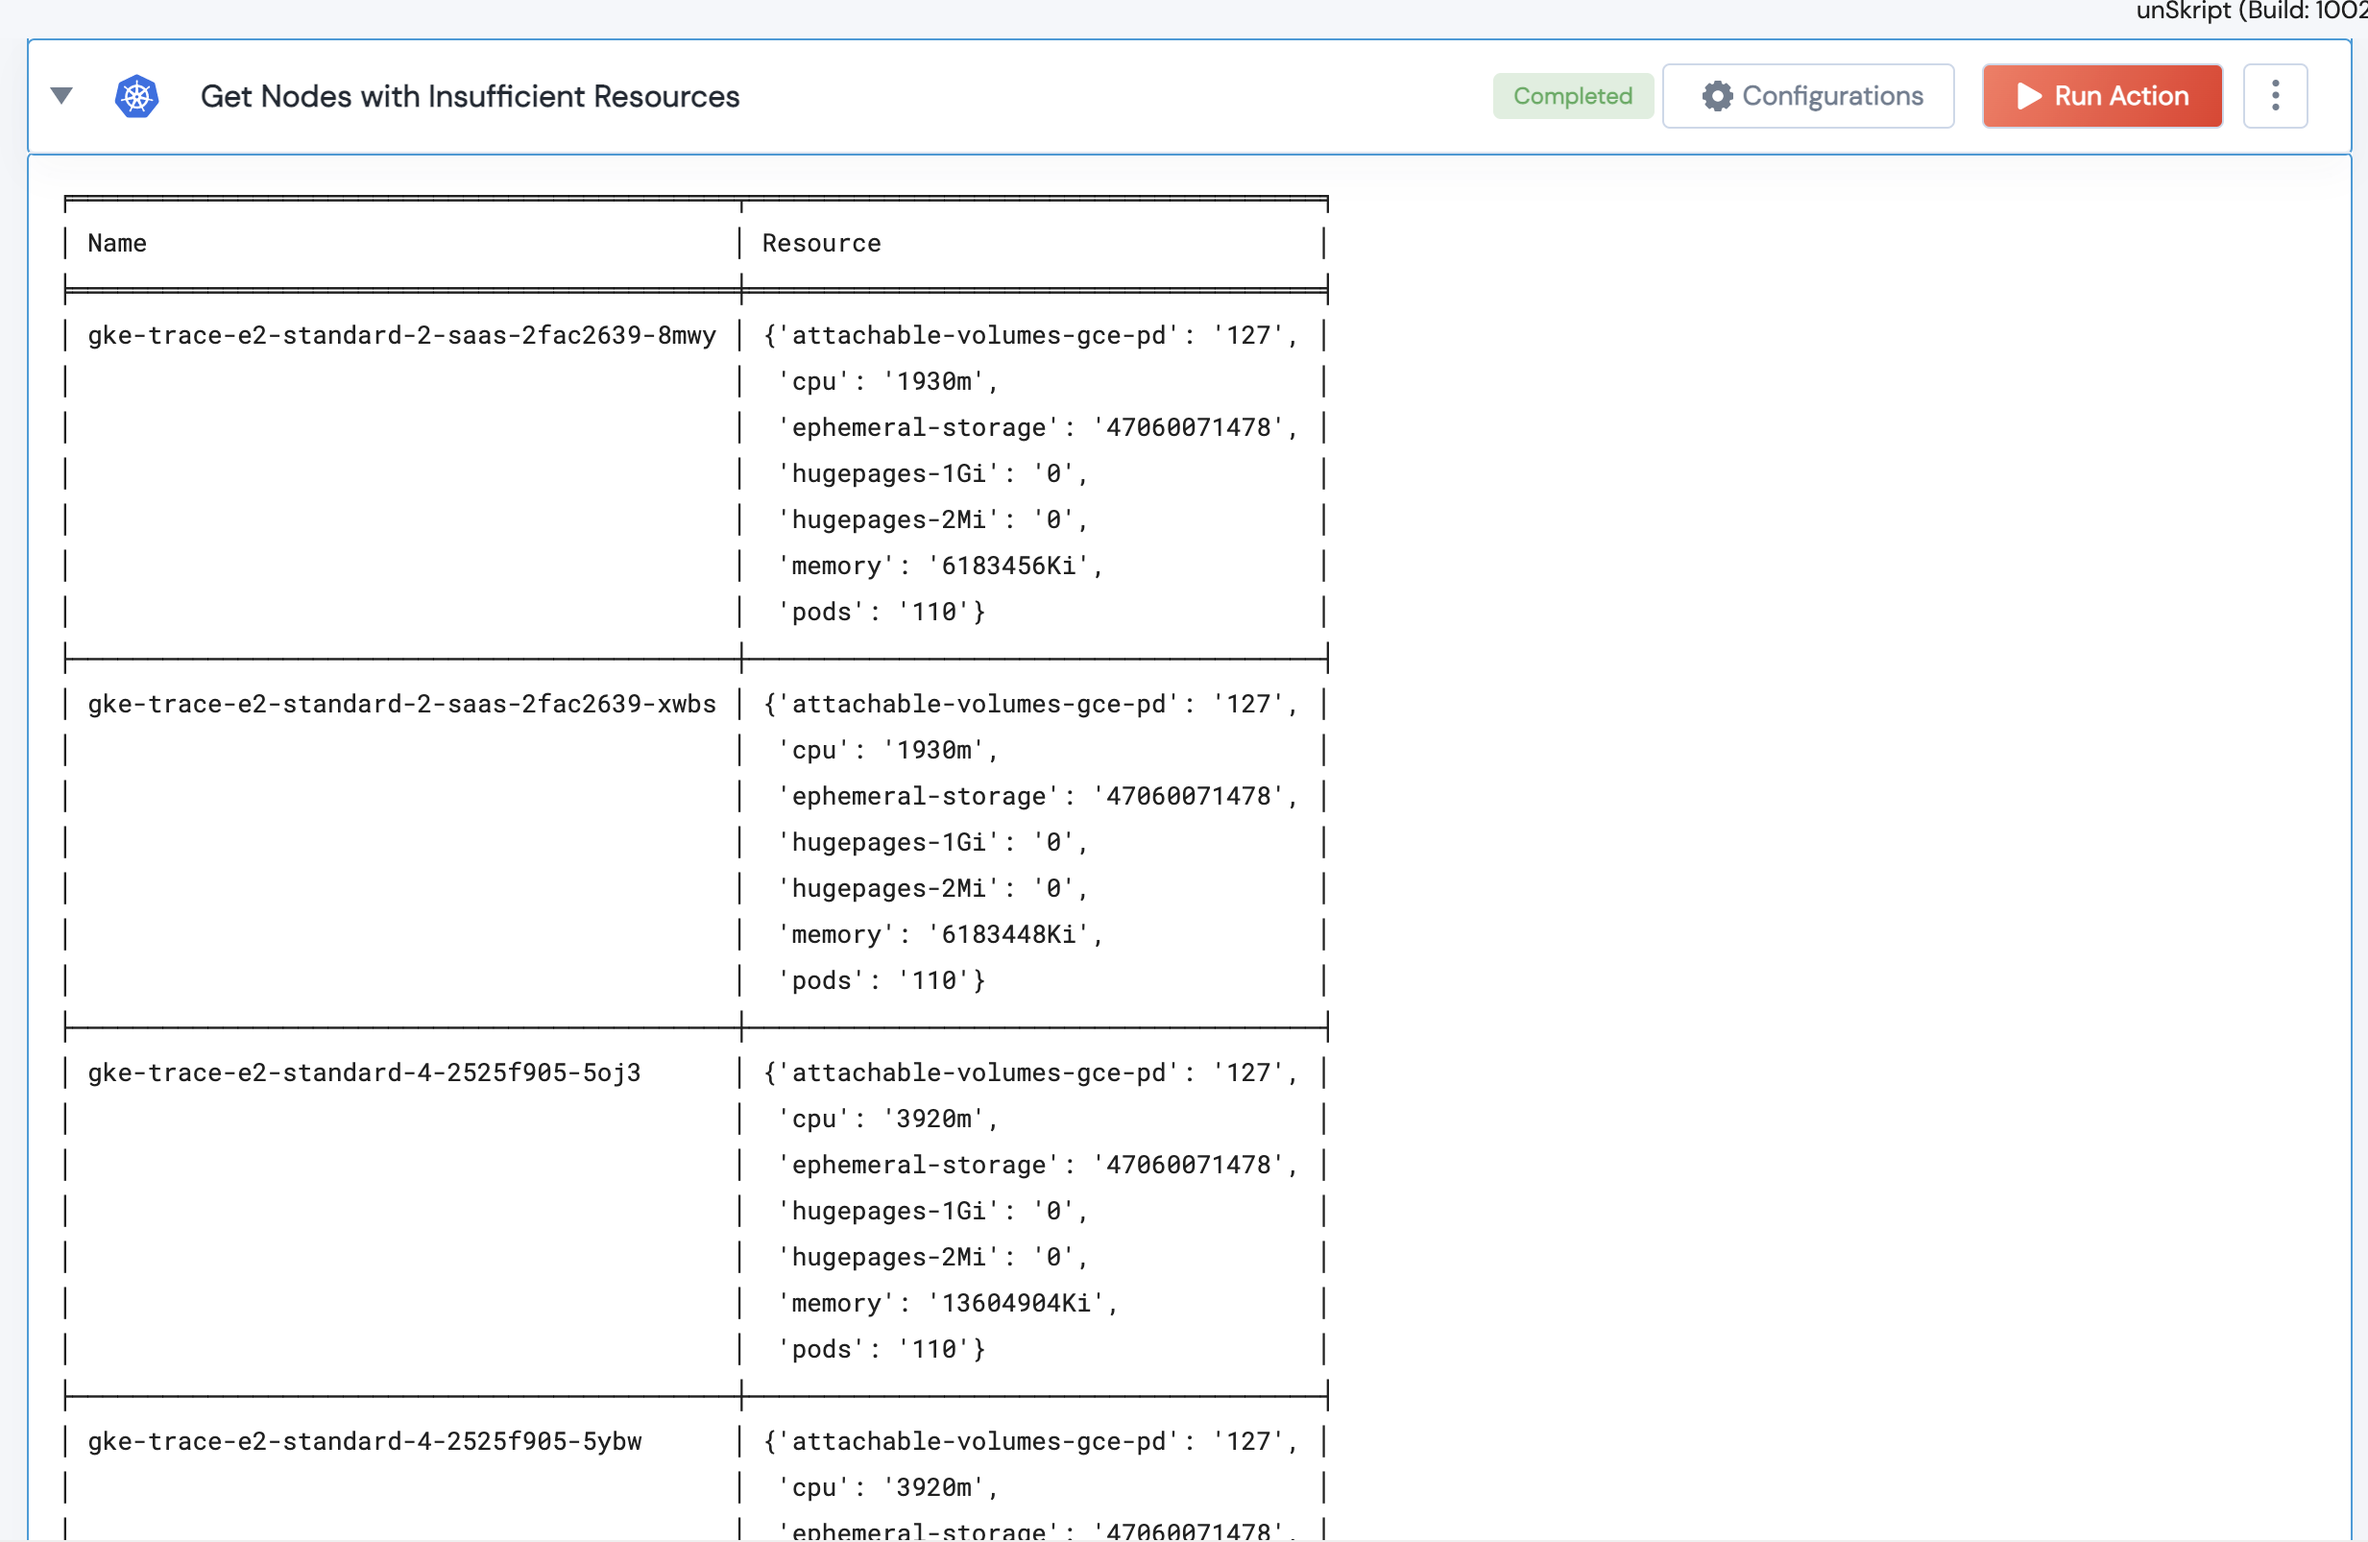
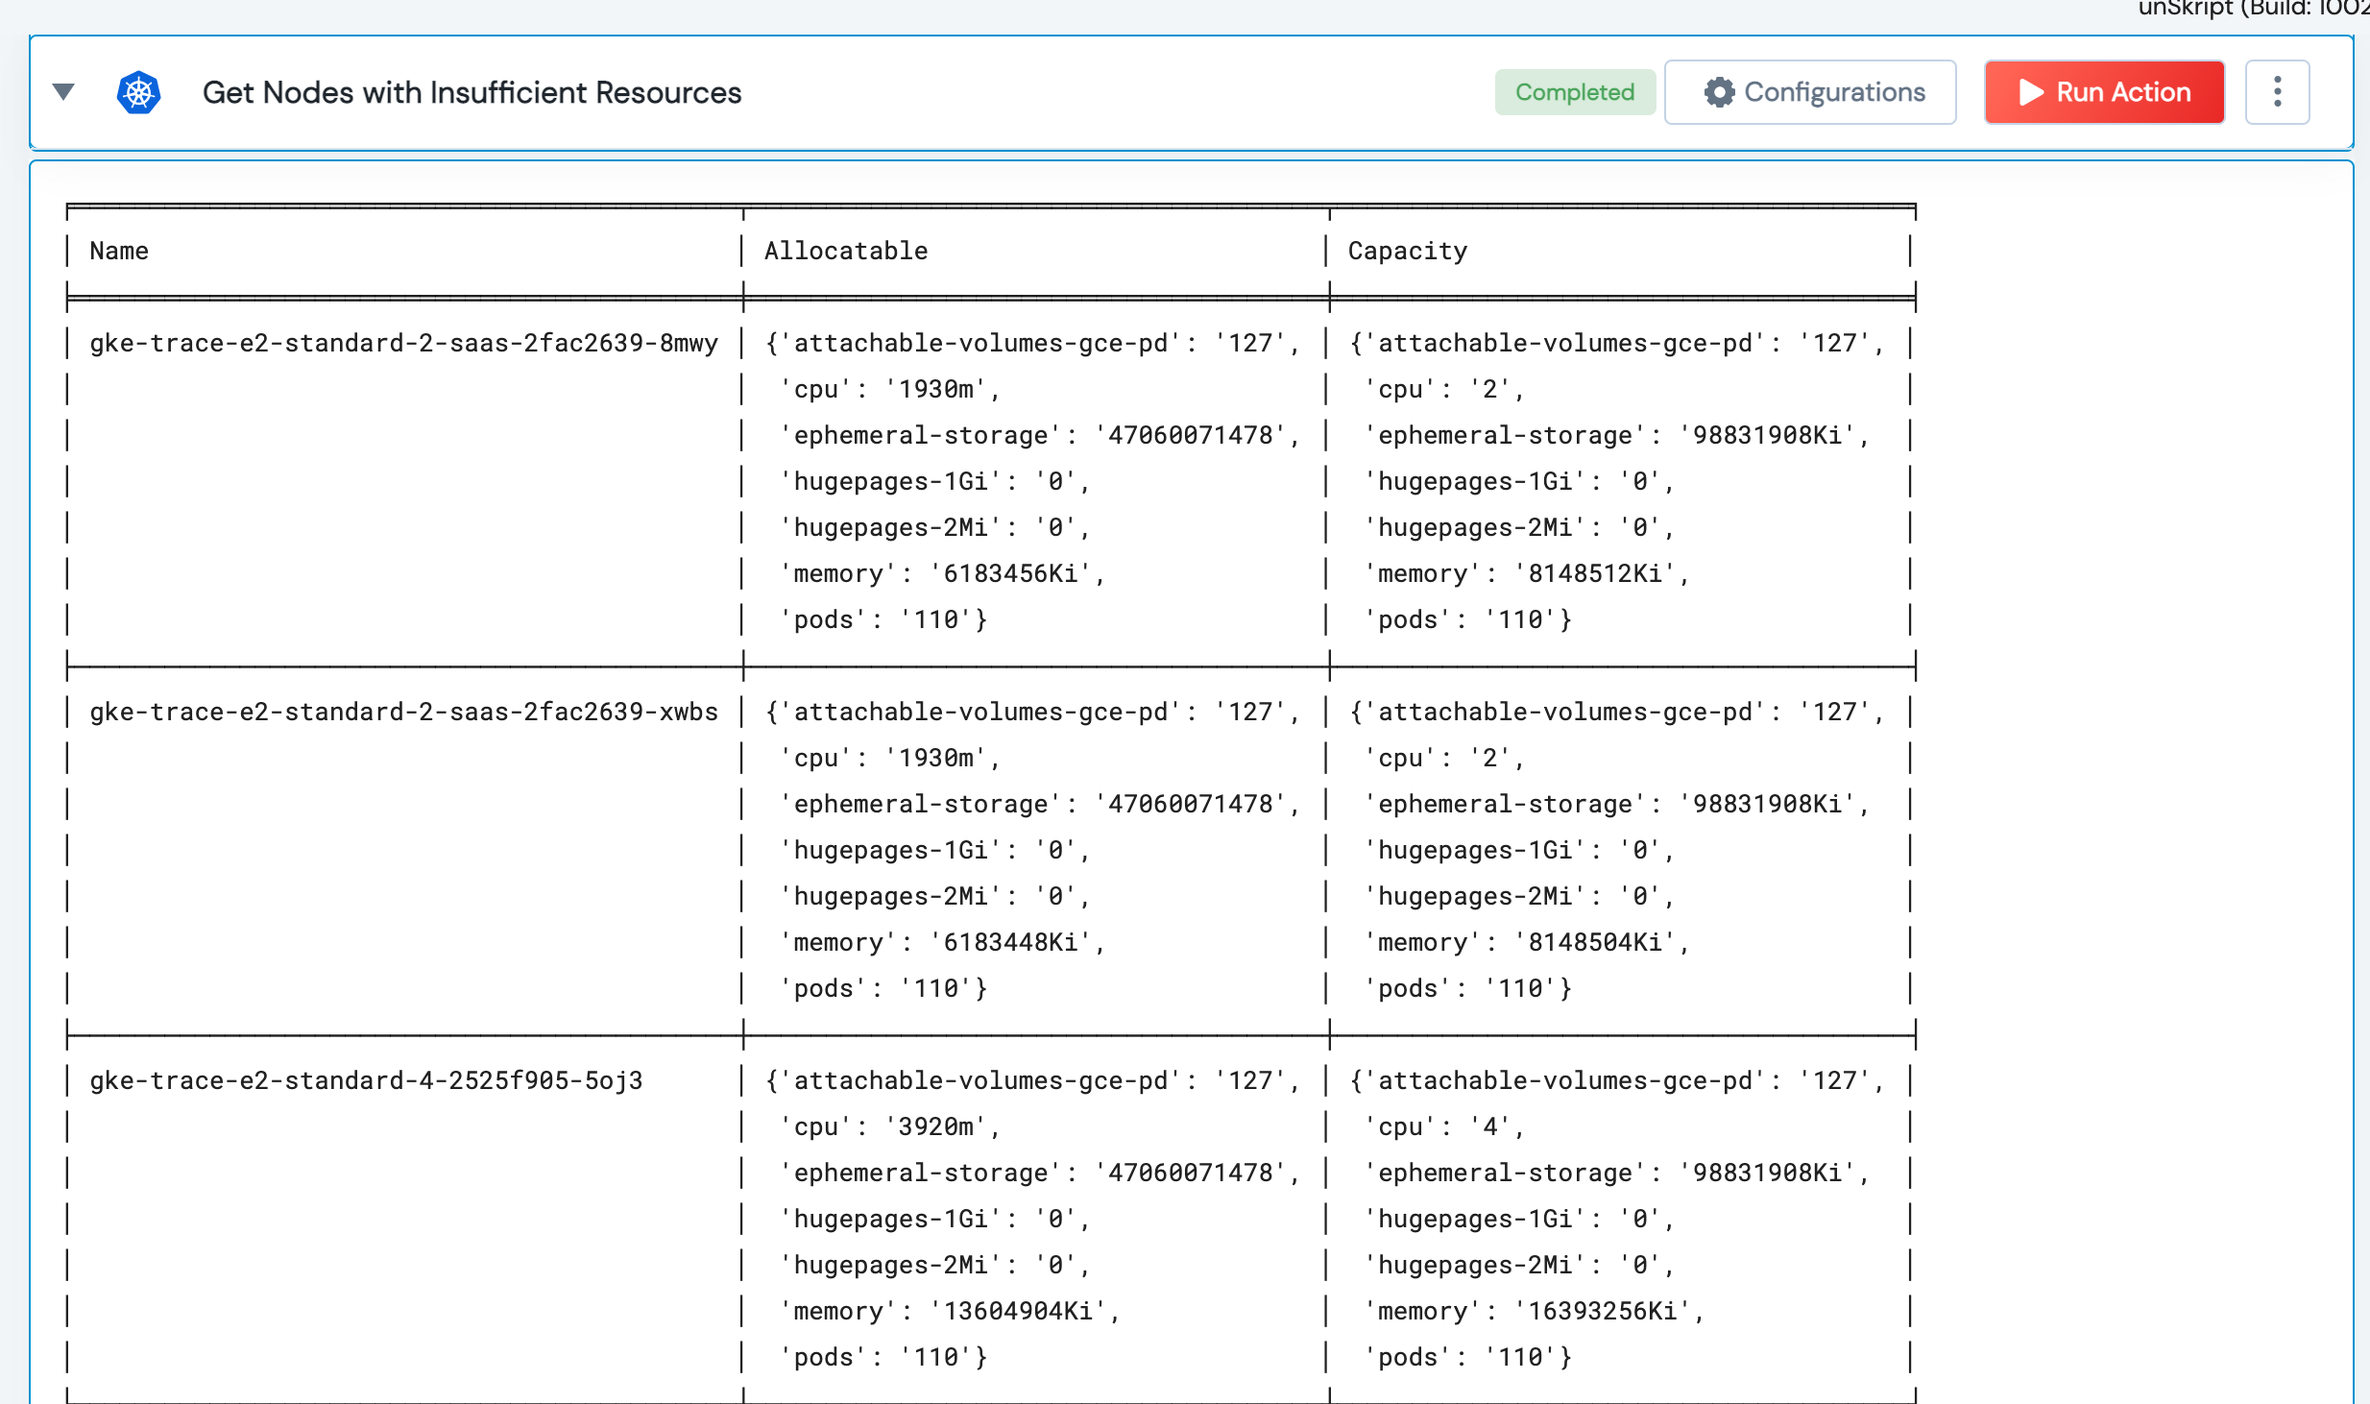
More PR Comments

diff --git a/Kubernetes/legos/k8s_get_nodes_with_insufficient_resources/k8s_get_nodes_with_insufficient_resources.py b/Kubernetes/legos/k8s_get_nodes_with_insufficient_resources/k8s_get_nodes_with_insufficient_resources.py
@@ -31,8 +31,8 @@ def k8s_get_nodes_with_insufficient_resources_printer(output):
     data = []
     for o in output[1]:
         if isinstance(o, dict) == True:
-            res_hdr = ["Name", "Resource"]
-            data.append([o.get('name'), pprint.pformat(o.get('resource'))])        
+            res_hdr = ["Name", "Allocatable", "Capacity"]
+            data.append([o.get('name'), pprint.pformat(o.get('allocatable')), pprint.pformat(o.get('capacity'))])        
     print(tabulate(data, headers=res_hdr, tablefmt='fancy_grid'))
 
 
@@ -68,7 +68,7 @@ def k8s_get_nodes_with_insufficient_resources(handle, threshold: int = 85) -> Tu
         if cpu_usage_percent >= threshold \
             or mem_usage_percent >= threshold \
             or storage_usage_percent >= threshold:
-            retval.append({'name': node.metadata.name, 'resource': node.status.allocatable})
+            retval.append({'name': node.metadata.name, 'allocatable': node.status.allocatable, 'capacity': node.status.capacity})
 
     if  retval:
         return(False, retval)
